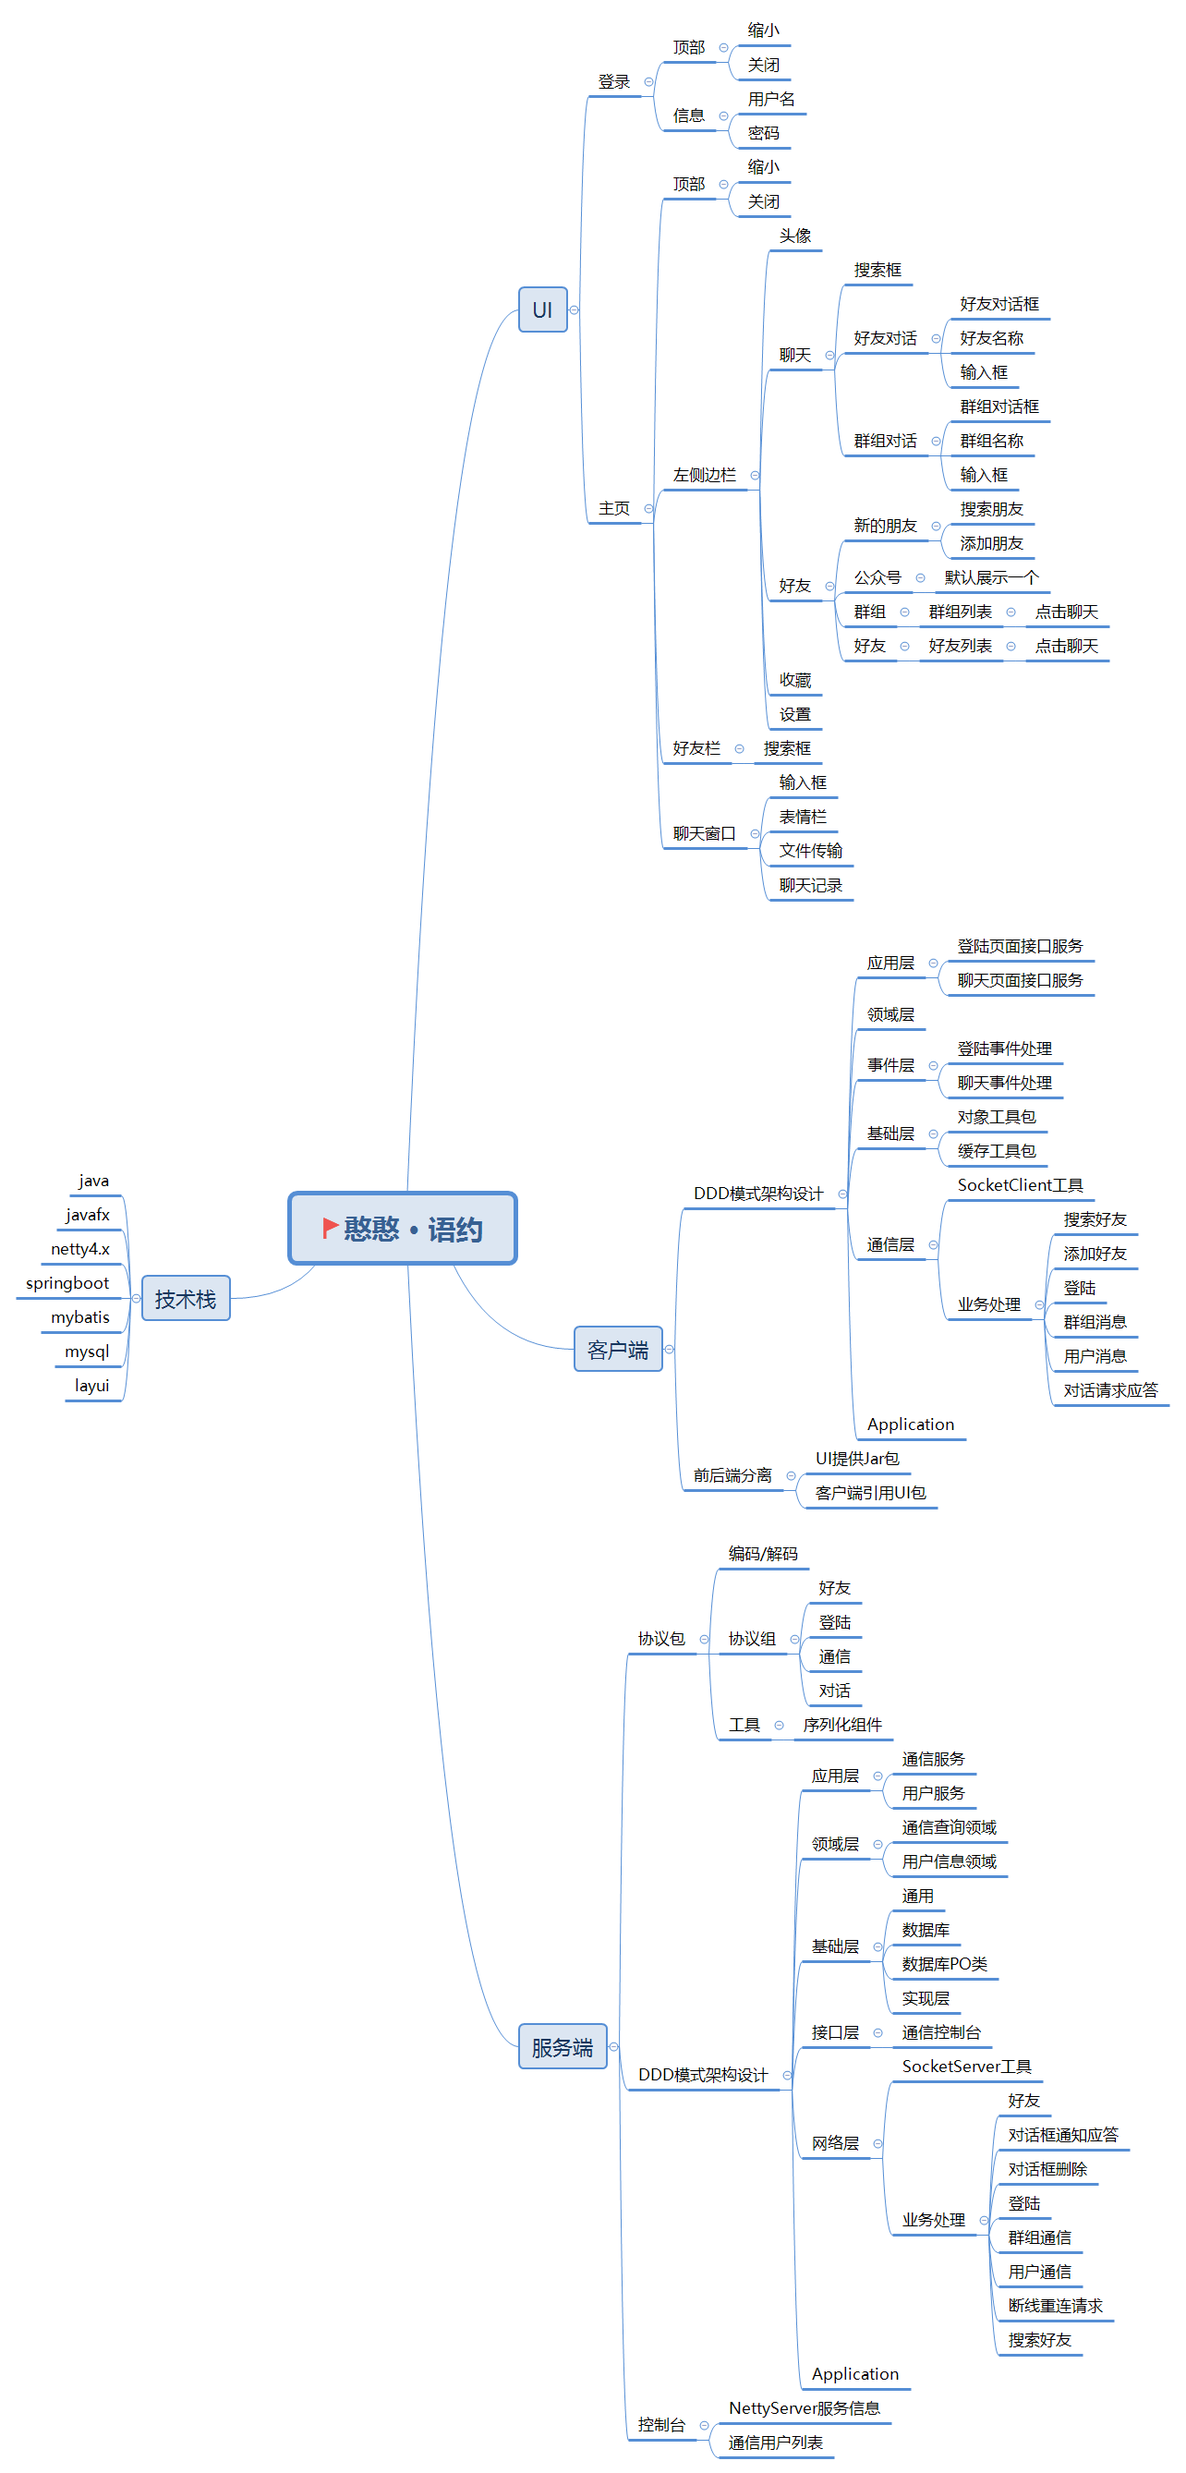
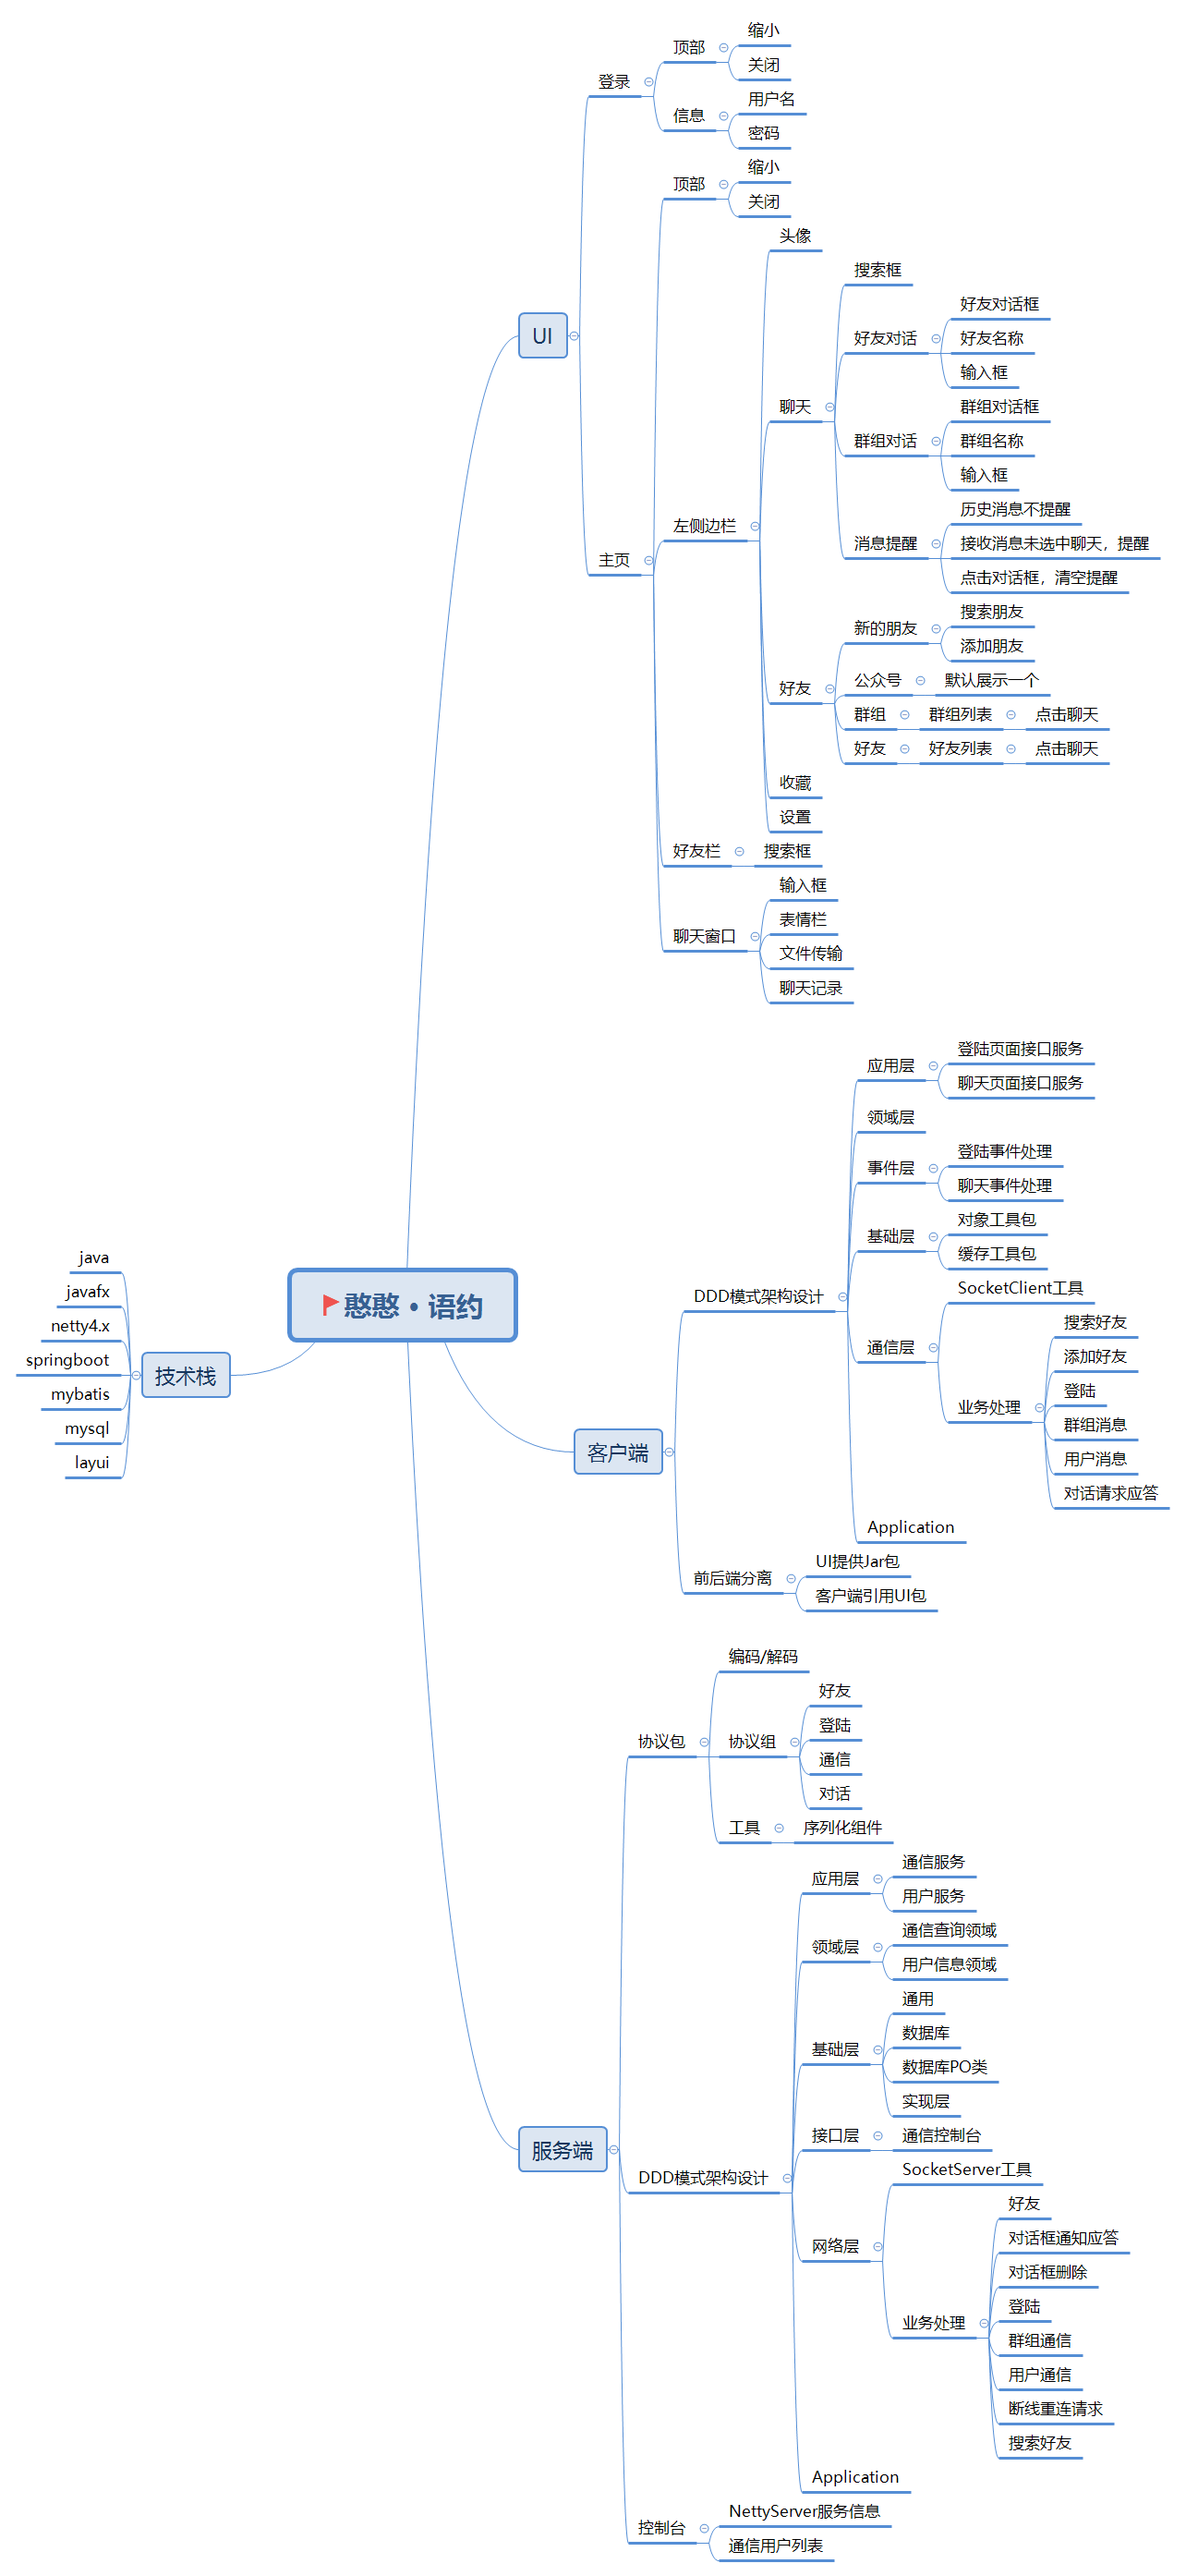
小傅哥 | 更新文档

diff --git a/README.md b/README.md
@@ -31,6 +31,10 @@
 
 ![添加好友](http://chat.itstack.org/assets/img/2020/ui-02.png)
 
+>消息提醒
+
+![消息提醒](http://chat.itstack.org/assets/img/2020/ui-05.png)
+
 ##  三、转载分享
 
 建立本开源项目的初衷是基于个人学习与工作中对 Java 相关技术栈的总结记录，在这里也希望能帮助一些在学习 Java 过程中遇到问题的小伙伴，如果您需要转载本仓库的一些文章到自己的博客，请按照以下格式注明出处，谢谢合作。
